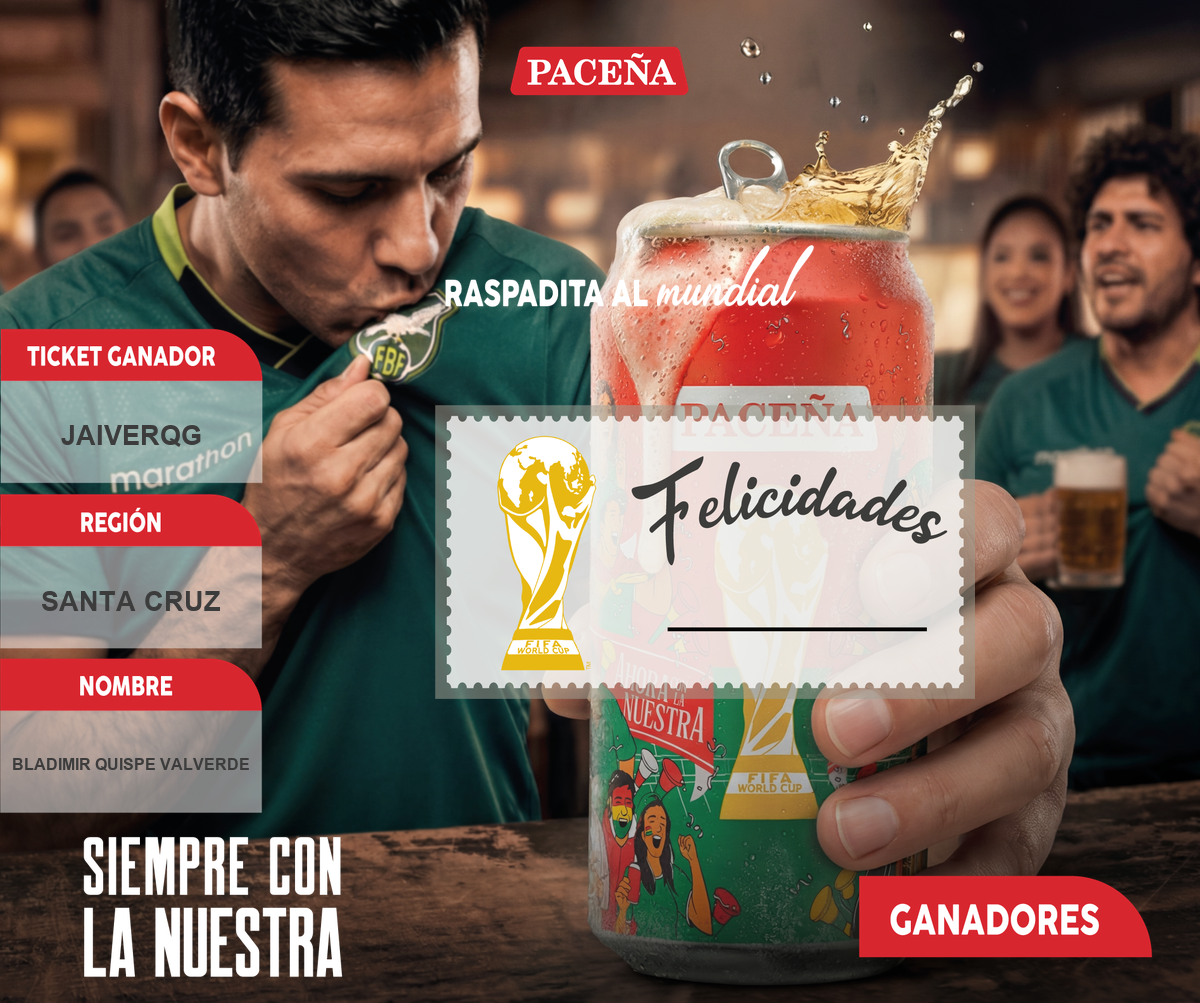
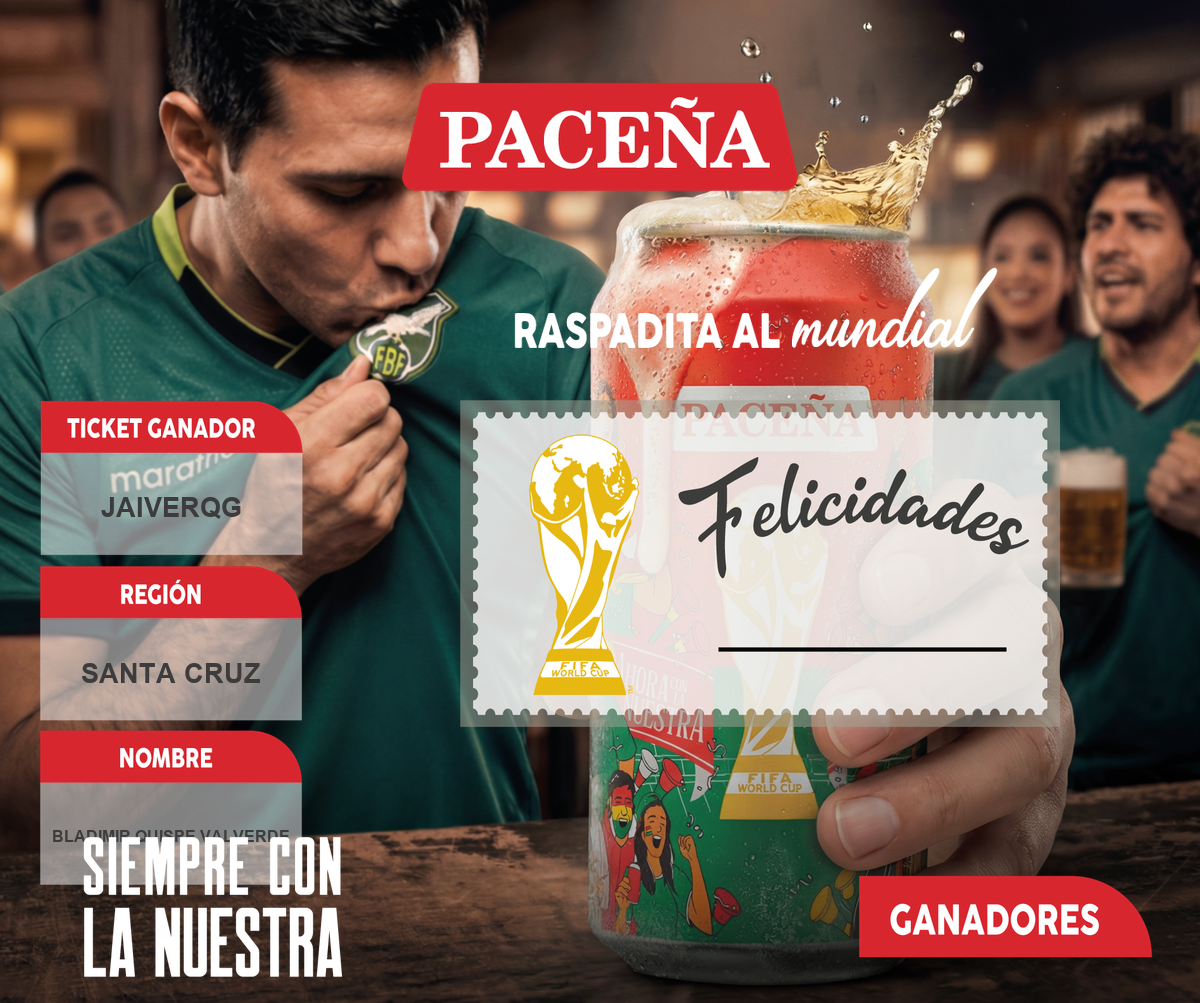
ajustando tamaño de elementos

diff --git a/src/lib/generarImagenGanador.js b/src/lib/generarImagenGanador.js
@@ -7,7 +7,7 @@
  */
 
 const BASE = () => `${import.meta.env.BASE_URL}ganador/`
-const url  = (f) => BASE() + encodeURIComponent(f)
+const url = (f) => BASE() + encodeURIComponent(f)
 
 function loadImg(src) {
   return new Promise((resolve, reject) => {
@@ -44,14 +44,14 @@ export async function generarImagenGanador({ nombre, region, ticket }) {
     ])
 
   const canvas = document.createElement('canvas')
-  canvas.width  = W
+  canvas.width = W
   canvas.height = H
   const ctx = canvas.getContext('2d')
 
   // ── 1. FONDO – cover crop (ratio ~1.2 ≈ canvas ratio 1.197) ──────────
   const scaleF = H / fondo.height
-  const srcW   = W / scaleF
-  const srcX   = (fondo.width - srcW) / 2
+  const srcW = W / scaleF
+  const srcX = (fondo.width - srcW) / 2
   ctx.drawImage(fondo, srcX, 0, srcW, fondo.height, 0, 0, W, H)
 
   // ── 2. LOGO PACEÑA – top center ───────────────────────────────────────
@@ -74,28 +74,30 @@ export async function generarImagenGanador({ nombre, region, ticket }) {
   //   NOMBRE: content x=[131,529] y=[40,274] white=[120,274]
   //   Content width = 398px para los tres → scale = 262/398 = 0.658
   const TARGET_W = 262
-  const scaleC   = TARGET_W / 398
+  const scaleC = TARGET_W / 398
+  const CARD_OFFSET = 40    // desplazamiento horizontal a la derecha
+  const CARD_Y0 = 400   // TICKET arranca al mismo nivel que el stamp (feliW y=400)
 
   const CARDS = [
-    { img: tktLbl, cxs: 91,  cys: 54,  wmin: 134, wmax: 288, vtop: 328, val: (ticket || '').toUpperCase() },
-    { img: regLbl, cxs: 110, cys: 47,  wmin: 127, wmax: 281, vtop: 493, val: (region || '').toUpperCase() },
-    { img: nomLbl, cxs: 131, cys: 40,  wmin: 120, wmax: 274, vtop: 658, val: (nombre || '').toUpperCase() },
+    { img: tktLbl, cxs: 91, cys: 54, wmin: 134, wmax: 288, vtop: CARD_Y0, val: (ticket || '').toUpperCase() },
+    { img: regLbl, cxs: 110, cys: 47, wmin: 127, wmax: 281, vtop: CARD_Y0 + 165, val: (region || '').toUpperCase() },
+    { img: nomLbl, cxs: 131, cys: 40, wmin: 120, wmax: 274, vtop: CARD_Y0 + 330, val: (nombre || '').toUpperCase() },
   ]
 
   ctx.textBaseline = 'middle'
-  ctx.fillStyle    = 'rgba(60,60,60,1)'
+  ctx.fillStyle = 'rgba(60,60,60,1)'
 
   for (const { img, cxs, cys, wmin, wmax, vtop, val } of CARDS) {
     const aw = Math.round(615 * scaleC)
     const ah = Math.round(336 * scaleC)
-    const ax = -Math.round(cxs * scaleC)
+    const ax = -Math.round(cxs * scaleC) + CARD_OFFSET
     const ay = vtop - Math.round(cys * scaleC)
     ctx.drawImage(img, ax, ay, aw, ah)
 
-    const wbTop  = vtop + Math.round((wmin - cys) * scaleC)
-    const wbBot  = vtop + Math.round((wmax - cys) * scaleC)
+    const wbTop = vtop + Math.round((wmin - cys) * scaleC)
+    const wbBot = vtop + Math.round((wmax - cys) * scaleC)
     const textCy = Math.round((wbTop + wbBot) / 2)
-    const textCx = Math.round(TARGET_W / 2)
+    const textCx = CARD_OFFSET + Math.round(TARGET_W / 2)
 
     // Auto-fit: reduce font size hasta que entre en el ancho disponible
     let fz = 27
@@ -108,14 +110,14 @@ export async function generarImagenGanador({ nombre, region, ticket }) {
   }
 
   // ── 6. SIEMPRE CON LA NUESTRA – anclado al borde inferior ────────────
-  const siemW = 390
+  const siemW = 480
   const siemH = Math.round(siempre.height * siemW / siempre.width)   // ≈ 212px
-  drawRW(ctx, siempre, siemW, 0, H - siemH + 10)
+  drawRW(ctx, siempre, siemW, 350, H - siemH - 20)
 
   // ── 7. GANADORES – esquina inferior derecha ───────────────────────────
-  const ganW = 335
+  const ganW = 320
   const ganH = Math.round(ganadores.height * ganW / ganadores.width)  // ≈ 183px
-  drawRW(ctx, ganadores, ganW, 840, H - ganH + 5)
+  drawRW(ctx, ganadores, ganW, 790, H - ganH - 20)
 
   // ── Exportar como PNG ─────────────────────────────────────────────────
   return new Promise((resolve) => {
